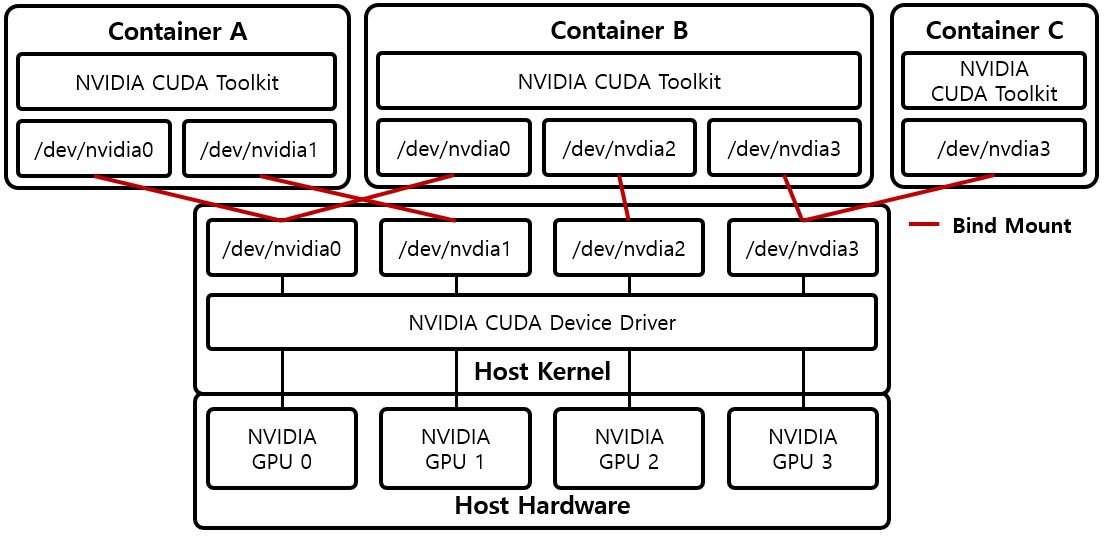
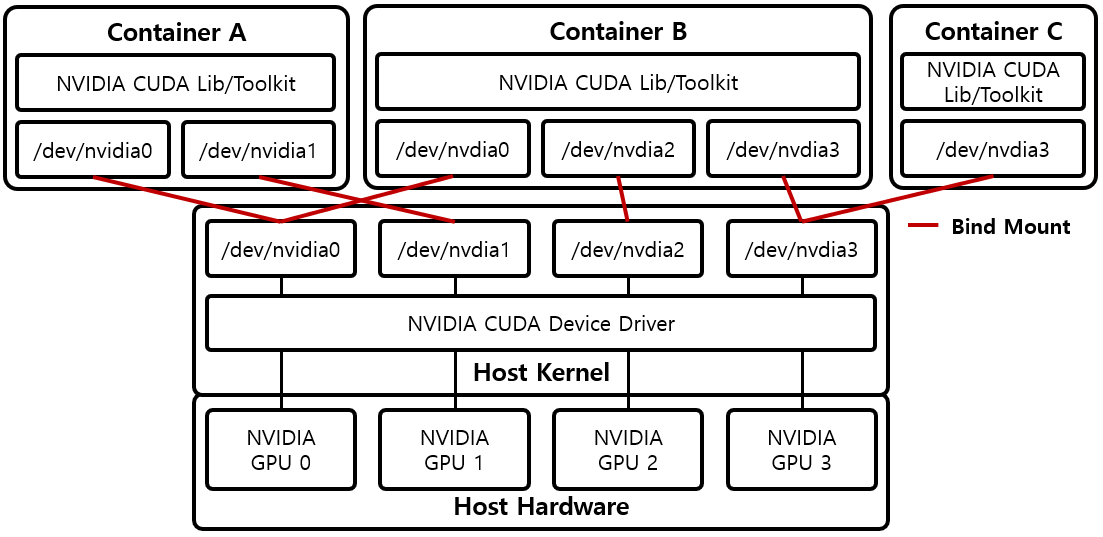
Update

diff --git a/_docs/theory_analysis/Container_NVIDIA_CUDA_GPU.md b/_docs/theory_analysis/Container_NVIDIA_CUDA_GPU.md
@@ -13,17 +13,19 @@ Container에게 NVIDIA CUDA GPU를 제공하는 기법을 분석한다.
 
 NVIDIA CUDA GPU을 Container에게 제공하여 Container가 CUDA를 이용할 수 있는 환경을 구성할 수 있다. Docker 19.03 Version에서는 추가된 GPU Opiton을 이용하여 Container에게 NVIDIA CUDA GPU를 제공할 수 있다. Container에게 NVIDIA CUDA GPU를 제공하는 방법으로 **OCI Runtime Spec**을 이용한다.
 
-![[그림 1] CUDA Container OCI Runtime Spec]({{site.baseurl}}/images/theory_analysis/Container_NVIDA_CUDA_GPU/CUDA_Container_Runtime_Spec.PNG){: width="600px"}
+![[그림 1] CUDA GPU Container OCI Runtime Spec]({{site.baseurl}}/images/theory_analysis/Container_NVIDA_CUDA_GPU/CUDA_Container_Runtime_Spec.PNG){: width="600px"}
 
 [그림 1]은 Docker GPU Option을 이용하여 Container를 생성시 생성되는 OCI Runtime Spec을 나타내고 있다. Docker는 GPU Option을 발견하면 OCI Runtime Spec의 Prestart Hook에 nvidia-container-runtime-hook CLI을 실행하기 위한 설정 내용을 추가하고, Container의 Env에는 GPU, CUDA 관련 설정 정보를 저장한다. Prestart Hook의 Argument는 prestart로 고정된다. Prestart Hook의 Env는 Container의 Env 정보를 그대로 가져와 설정하기 때문에 Docker가 Container의 Env에 추가한 GPU, CUDA 관련 설정 정보가 그대로 Prestart Hook의 Env에 저장된다. Env에는 Container가 이용할 GPU Device List, GPU Capability, CUDA Version, CUDA Library 경로등의 정보가 포함되어 있다.
 
-![[그림 2] CUDA Container Init]({{site.baseurl}}/images/theory_analysis/Container_NVIDA_CUDA_GPU/CUDA_Container_Init.PNG){: width="700px"}
+![[그림 2] CUDA GPU Container Init]({{site.baseurl}}/images/theory_analysis/Container_NVIDA_CUDA_GPU/CUDA_Container_Init.PNG){: width="700px"}
 
 [그림 2]는 [그림 1]에 생성된 OCI Runtime Spec을 바탕으로 runc가 Container를 생성하는 과정을 나타내고 있다. runc는 Container를 위한 Namespace 생성 및 rootfs을 설정하기 위해 clone()을 통해서 Container Init Process를 생성하고, 생성된 Container Init Process의 PID를 가져온다. 그 후 runc는 Prestart Hook의 내용처럼 GPU, CUDA 관련 Env와 함께 nvidia-container-runtime-hook을 실행하고, OCI Runtime Spec에 따라 nvidia-container-runtime-hook의 STDIN을 통해서 Contianer Init PID, rootfs Path와 같은 Container 상태 정보를 전달한다. nvidia-container-runtime-hook은 전달받은 Container, GPU, CUDA 정보를 nvidia-container-cli의 Parameter로 넘겨 nvidia-container-cli을 실행한다. 
 
-nvidia-container-cli은 Parameter로 전달받은 Container, GPU, CUDA 정보와 libnvidia-container를 이용하여 Container가 NVIDIA CUDA GPU을 이용할 수 있도록 설정한다. nvidia-container-cli가 Container의 NVIDIA CUDA GPU를 실제로 설정하는 주체이고,   nvidia-container-runtime-hook은 OCI Runtime Spec과 nvidia-container-cli 사이를 연결해주는 Interface 역활만을 수행한다.
+nvidia-container-cli은 Parameter로 전달받은 Container, GPU, CUDA 정보와 libnvidia-container를 이용하여 Container가 NVIDIA CUDA GPU을 이용할 수 있도록 설정한다. nvidia-container-cli가 Container의 NVIDIA CUDA GPU를 실제로 설정하는 주체이고, nvidia-container-runtime-hook은 OCI Runtime Spec과 nvidia-container-cli 사이를 연결해주는 Interface 역활만을 수행한다.
 
-![[그림 3] CUDA Container Stack]({{site.baseurl}}/images/theory_analysis/Container_NVIDA_CUDA_GPU/CUDA_Container_Stack.PNG){: width="700px"}
+![[그림 3] CUDA GPU Container Stack]({{site.baseurl}}/images/theory_analysis/Container_NVIDA_CUDA_GPU/CUDA_Container_Stack.PNG){: width="700px"}
+
+[그림 3]은 NVIDIA CUDA GPU 설정이 완료된 Container들을 나타내고 있다. Host는 4개의 NVIDIA CUDA GPU를 갖고 있어 4개의 Device Node File을 갖고 있다. Container A는 0,1번째 GPU, Container B는 0,2,3번째 GPU, Container C는 3번째 GPU를 이용하고 있다. nvidia-container-cli는 전달 받은 GPU Device List 정보를 바탕으로 해당 GPU Device의 Device Node File을 Bind Mount하여 Container에게 노출시키고, Container App (Init Process)에게 GPU Device를 이용할 수 있는 권한을 설정한다. Container App은 Container Image에 포함된 NVIDIA CUDA Lib/Toolkit을 이용하여 CUDA를 이용하게 된다.
 
 ### 2. 참조
 
